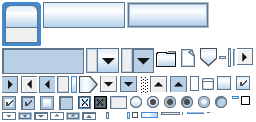
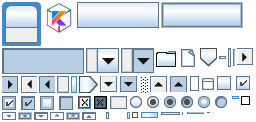
Corrected Font Exporting.

Changed region(s): [[0.1562, 0.0, 0.3125, 0.2705], [0.7812, 0.0, 0.9688, 0.2459], [0.4688, 0.0, 0.6562, 0.2459]]

diff --git a/engine/tools/src/main/kotlin/com/pashkd/krender/engine/tools/textureatlaseditor/TextureAtlasBitmapFontOperations.kt b/engine/tools/src/main/kotlin/com/pashkd/krender/engine/tools/textureatlaseditor/TextureAtlasBitmapFontOperations.kt
@@ -166,31 +166,123 @@ internal class TextureAtlasBitmapFontOperations(
             return
         }
         val targetPath =
-            state.importExport.targetPath
+            state.importExport.exportResourcePath
                 .takeIf { it.endsWith(".fnt", ignoreCase = true) }
+                ?: state.importExport.targetPath
+                    .takeIf { it.endsWith(".fnt", ignoreCase = true) }
                 ?: defaultFontExportPath(resource)
-        val result =
-            writer.write(
-                assetRoot = engine.assetRegistry.baseDir(),
-                targetPath = targetPath,
-                document = document,
-                overwrite = state.importExport.saveOverwrite,
-            )
+        val result = exportBitmapFontDocument(document, targetPath)
         state.importExport.lastExportResult = result
         state.statusMessage = result.message
         if (result.success) {
-            state.importExport.targetPath = targetPath
-            engine.logger.info(TAG) { "Font exported path='$targetPath' glyphs=${document.glyphs.size}" }
+            state.importExport.exportResourcePath = targetPath
+            engine.logger.info(TAG) {
+                "Font exported path='$targetPath' glyphs=${document.glyphs.size} writtenPaths=${result.writtenPaths.joinToString()}"
+            }
         } else {
             engine.logger.warn(TAG) { "Font export failed path='$targetPath': ${result.message}" }
         }
     }
 
+    private fun exportBitmapFontDocument(
+        document: BitmapFontDocument,
+        targetPath: String,
+    ): TextureAtlasEditorFileWriteResult {
+        if (document.pages.isEmpty()) {
+            return TextureAtlasEditorFileWriteResult(
+                success = false,
+                message = "Cannot export font: no bitmap pages were declared.",
+            )
+        }
+        val assetRoot = engine.assetRegistry.baseDir()
+        val targetFile =
+            TextureAtlasEditorPathValidator.resolveAssetPath(assetRoot, targetPath)
+                ?: return TextureAtlasEditorFileWriteResult(
+                    success = false,
+                    message = "Font export target path must stay inside the asset root.",
+                )
+        if (!targetFile.name.endsWith(".fnt", ignoreCase = true)) {
+            return TextureAtlasEditorFileWriteResult(
+                success = false,
+                message = "Font export target must end with '.fnt'.",
+            )
+        }
+
+        val pageTargets = chooseExportPageTargets(targetFile, document.pages)
+        val overwrite = state.importExport.saveOverwrite
+        if (!overwrite) {
+            if (targetFile.exists()) {
+                return TextureAtlasEditorFileWriteResult(
+                    success = false,
+                    message = "Font export target already exists and overwrite is disabled.",
+                )
+            }
+            val existingPage = pageTargets.firstOrNull(File::exists)
+            if (existingPage != null) {
+                return TextureAtlasEditorFileWriteResult(
+                    success = false,
+                    message = "Font export page '${normalizePath(existingPage.path)}' already exists and overwrite is disabled.",
+                )
+            }
+        }
+
+        val pageOverrides = mutableMapOf<Int, String>()
+        val writtenPaths = mutableListOf<String>()
+        return runCatching {
+            targetFile.parentFile?.mkdirs()
+            document.pages.forEachIndexed { index, page ->
+                val sourcePath = page.resolvedPath?.takeIf { page.exists }
+                    ?: error("Font page '${page.file}' is missing and cannot be exported.")
+                val sourceFile = File(sourcePath)
+                if (!sourceFile.isFile) {
+                    error("Font page '${page.file}' is missing and cannot be exported.")
+                }
+                val pageTarget = pageTargets[index]
+                Files.copy(sourceFile.toPath(), pageTarget.toPath(), StandardCopyOption.REPLACE_EXISTING)
+                pageOverrides[page.id] = pageTarget.name
+                writtenPaths += normalizePath(pageTarget.path)
+            }
+            val descriptorResult =
+                writer.write(
+                    assetRoot = assetRoot,
+                    targetPath = normalizePath(targetFile.path),
+                    document = document,
+                    overwrite = overwrite,
+                    pageFileOverrides = pageOverrides,
+                )
+            if (!descriptorResult.success) {
+                error(descriptorResult.message)
+            }
+            TextureAtlasEditorFileWriteResult(
+                success = true,
+                message = "Exported bitmap font descriptor and page textures.",
+                writtenPaths = descriptorResult.writtenPaths + writtenPaths,
+            )
+        }.getOrElse { error ->
+            pageTargets.forEach { pageTarget ->
+                if (pageTarget.isFile) {
+                    pageTarget.delete()
+                }
+            }
+            TextureAtlasEditorFileWriteResult(
+                success = false,
+                message = error.message ?: "Font export failed.",
+            )
+        }
+    }
+
     private fun defaultFontExportPath(resource: FontAtlasResource): String {
-        val sourcePath = resource.documentPath
-        val parent = File(sourcePath).parent?.replace('\\', '/')?.let { "$it/" } ?: ""
-        val baseName = File(sourcePath).nameWithoutExtension.ifBlank { resource.name }
-        return "${parent}${baseName}_export.fnt"
+        val atlasFile = state.selectedAtlasDocument()?.file
+        val exportDirectory =
+            atlasFile?.parentFile?.resolve("export")
+                ?: resource.documentPath
+                    .let(::File)
+                    .parentFile
+                    ?.resolve("export")
+                ?: File(resource.documentPath).parentFile
+                ?: File(engine.assetRegistry.baseDir(), "export")
+        val baseName = sanitizeFontFileStem(resource.name)
+        return normalizePath(File(exportDirectory, "$baseName.fnt").path)
     }
 
     fun setPackFontInAtlas(enabled: Boolean) {
@@ -372,6 +464,25 @@ internal class TextureAtlasBitmapFontOperations(
         val fntFile: File,
         val pageFiles: List<File>,
     )
+
+    private fun chooseExportPageTargets(
+        targetFile: File,
+        pages: List<BitmapFontPage>,
+    ): List<File> {
+        val baseName = targetFile.nameWithoutExtension.ifBlank { "font" }
+        val directory = targetFile.parentFile ?: targetFile.absoluteFile.parentFile ?: File(".")
+        return pages.mapIndexed { index, page ->
+            val sourceName = page.resolvedPath?.let(::File)?.name ?: page.file
+            val extension = File(sourceName).extension.takeIf { it.isNotBlank() } ?: "png"
+            val fileName =
+                if (index == 0) {
+                    "$baseName.$extension"
+                } else {
+                    "${baseName}_$index.$extension"
+                }
+            File(directory, fileName)
+        }
+    }
 
     companion object {
         private const val TAG = "TextureAtlasFontOps"

diff --git a/engine/tools/src/main/kotlin/com/pashkd/krender/engine/tools/textureatlaseditor/ui/TextureAtlasEditorToolsPanel.kt b/engine/tools/src/main/kotlin/com/pashkd/krender/engine/tools/textureatlaseditor/ui/TextureAtlasEditorToolsPanel.kt
@@ -3,6 +3,7 @@ package com.pashkd.krender.engine.tools.textureatlaseditor.ui
 import com.pashkd.krender.engine.tools.textureatlaseditor.TextureAtlasEditorOperations
 import com.pashkd.krender.engine.tools.textureatlaseditor.TextureAtlasEditorPanelIds
 import com.pashkd.krender.engine.tools.textureatlaseditor.TextureAtlasEditorState
+import com.pashkd.krender.engine.tools.textureatlaseditor.FontAtlasResource
 import com.pashkd.krender.engine.tools.textureatlaseditor.selectedAtlasDocument
 import com.pashkd.krender.engine.tools.textureatlaseditor.selectedPackingPlan
 import com.pashkd.krender.engine.tools.textureatlaseditor.selectedResource
@@ -60,11 +61,6 @@ class TextureAtlasEditorToolsPanel(
             onSelect = operations::setPackingMaxPageHeight,
         )
         drawPaddingCombo()
-        val allowRotation = booleanArrayOf(state.packing.settings.allowRotation)
-        if (ImGui.checkbox("Allow Rotation##texture_atlas_editor_packing_rotation", allowRotation)) {
-            operations.setPackingAllowRotation(allowRotation[0])
-        }
-        tooltipOnHover("Allows the packer to rotate regions when placing them on atlas pages.")
         val includeNinePatch = booleanArrayOf(state.packing.settings.includeNinePatch)
         if (ImGui.checkbox("Include NinePatch##texture_atlas_editor_packing_nine_patch", includeNinePatch)) {
             operations.setPackingIncludeNinePatch(includeNinePatch[0])
@@ -74,6 +70,7 @@ class TextureAtlasEditorToolsPanel(
         if (ImGui.checkbox("Overwrite Existing Atlas##texture_atlas_editor_save_overwrite", overwriteExistingAtlas)) {
             operations.setSaveOverwrite(overwriteExistingAtlas[0])
         }
+        tooltipOnHover("Replaces existing atlas files when saving the packed atlas.")
         if (ImGui.button("Pack Texture Atlas##texture_atlas_editor_packing_run")) {
             operations.packTextureAtlas()
         }
@@ -105,10 +102,16 @@ class TextureAtlasEditorToolsPanel(
         val canExport = state.selectedResource() != null
         if (!canExport) ImGui.beginDisabled()
         if (ImGui.button("Export Resource##texture_atlas_editor_export_resource")) {
-            operations.exportSelectedResourcePng()
+            operations.exportSelectedResource()
             writeBuffer(exportPathBuffer, state.importExport.exportResourcePath)
         }
-        tooltipOnHover("Exports the selected atlas resource to a PNG file.")
+        tooltipOnHover(
+            if (state.selectedResource() is FontAtlasResource) {
+                "Exports the selected bitmap font as a .fnt descriptor with its page textures."
+            } else {
+                "Exports the selected atlas resource to a PNG file."
+            },
+        )
         if (!canExport) ImGui.endDisabled()
     }
 
@@ -130,10 +133,6 @@ class TextureAtlasEditorToolsPanel(
             textLine("Pack the texture atlas with at least one region before saving.")
         } else {
             textLine("Packed atlas is ready to save.")
-        }
-        state.importExport.lastExportResult?.let { result ->
-            textLine(result.message)
-            result.writtenPaths.forEach(::textLine)
         }
     }
 

diff --git a/engine/tools/src/main/kotlin/com/pashkd/krender/engine/tools/textureatlaseditor/TextureAtlasEditorOperations.kt b/engine/tools/src/main/kotlin/com/pashkd/krender/engine/tools/textureatlaseditor/TextureAtlasEditorOperations.kt
@@ -508,6 +508,14 @@ class TextureAtlasEditorOperations(
 
     fun exportSelectedResourcePng() = resourceOperations.exportSelectedResourcePng()
 
+    fun exportSelectedResource() {
+        when (state.selectedResource()) {
+            is FontAtlasResource -> fontOperations.exportBitmapFont()
+            null -> state.statusMessage = "Select a resource before exporting it."
+            else -> resourceOperations.exportSelectedResourcePng()
+        }
+    }
+
     fun createNinePatchFromSelectedResource() = resourceOperations.createNinePatchFromSelectedResource()
 
     fun createBitmapFontPlaceholder() = resourceOperations.createBitmapFontPlaceholder()

diff --git a/engine/tools/src/main/kotlin/com/pashkd/krender/engine/tools/textureatlaseditor/TextureAtlasResourceOperations.kt b/engine/tools/src/main/kotlin/com/pashkd/krender/engine/tools/textureatlaseditor/TextureAtlasResourceOperations.kt
@@ -199,6 +199,7 @@ internal class TextureAtlasResourceOperations(
                 ?: return ""
         val fileName =
             when (selected) {
+                is FontAtlasResource -> "${safeFileStem(selected.name)}.fnt"
                 is NinePatchAtlasResource -> "${safeFileStem(selected.name)}.9.png"
                 else -> "${safeFileStem(selected.name)}.png"
             }